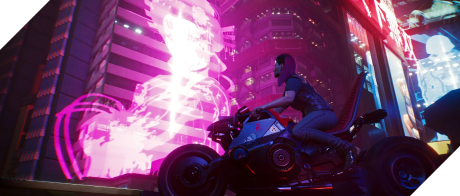
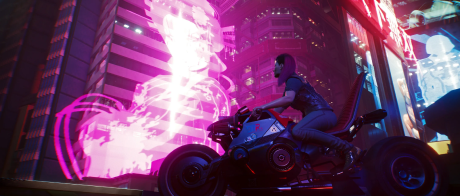
rebase

Changed region(s): [[0.8826, 0.7347, 1.0, 1.0], [0.0, 0.0, 0.1217, 0.2449]]

diff --git a/src/sections/descriptionSection/DescriptionSection.jsx b/src/sections/descriptionSection/DescriptionSection.jsx
@@ -19,10 +19,10 @@ const DescriptionSection = () => {
         </p>
         <div className={s.groupImage}>
           <div className={s.imageleft}>
-            <img src={image1} alt="" />
-            <img src={image2} alt="" />
+            <img className={s.image} src={image1} alt="" />
+            <img className={s.image} src={image2} alt="" />
           </div>
-          <img src={image3} alt="" />
+          <img className={s.image2} src={image3} alt="" />
         </div>
       </div>
     </section>

diff --git a/src/sections/descriptionSection/DescriptionSection.module.scss b/src/sections/descriptionSection/DescriptionSection.module.scss
@@ -22,12 +22,20 @@
 .groupImage {
   display: flex;
   justify-content: space-between;
-  
-  
 }
 .imageleft {
   display: flex;
   gap: 32px;
   flex-direction: column;
 
+}
+
+.image {
+  clip-path: polygon(11% 0, 100% 0, 100% 73%, 89% 100%, 0 100%, 0 27%);
+}
+
+
+.image2 {
+  max-width: 100%;
+  clip-path: polygon(8% 0, 100% 0, 100% 83%, 92% 100%, 0 100%, 0 17%);
 }
